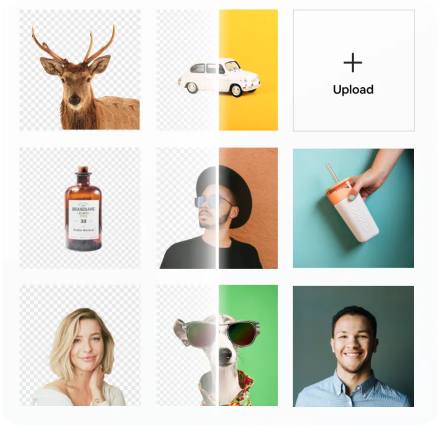
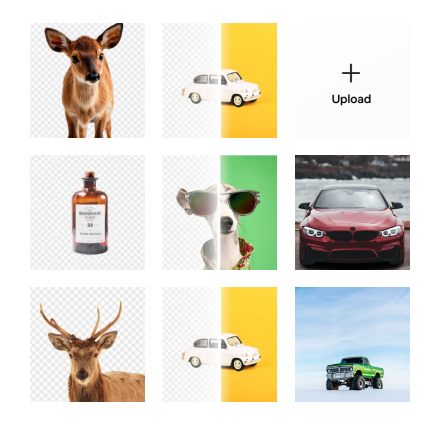
human photos replaced

diff --git a/bulk-image-background-removal-tool-apis.html b/bulk-image-background-removal-tool-apis.html
@@ -166,9 +166,9 @@
       <section class="hero-section">
         <div class="relative my-10 h-[100vh] bg-apeBackground md:min-h-[70vh] lg:my-0">
           <div class="absolute flex h-full w-full items-center px-5 pt-10 text-white">
-            <div class="mx-auto flex w-full max-w-screen-xl flex-col-reverse items-center justify-between gap-10 lg:flex-row">
+            <div class="mx-auto flex w-full max-w-screen-xl flex-col-reverse items-center justify-evenly gap-10 lg:flex-row">
               <div class="relative flex w-[200px] items-center lg:w-[350px]">
-                <img loading="lazy" class="relative z-10 h-auto w-full rounded-2xl" src="assets/images/bulk-image-background-removal-tool-apis__girl-hero.png" alt="PixLab AI Script Writer, Text Editor & PDF Analyser" />
+                <img loading="lazy" class="relative z-10 h-auto w-full rounded-2xl" src="assets/images/bulk-image-background-removal-tool-apis__cat-hero.png" alt="PixLab AI Script Writer, Text Editor & PDF Analyser" />
                 <div class="z-1 absolute inset-0 h-full w-full bg-ibrPrimary opacity-30 blur-xl lg:blur-3xl"></div>
               </div>
 
@@ -202,13 +202,13 @@
             <!-- Single Card -->
             <div class="flex flex-col items-center justify-center gap-3 text-center">
               <h3 class="text-[15px] text-muted">Original</h3>
-              <img loading="lazy" src="assets/images/bulk-image-background-removal-tool-apis__original-girl.png" alt="Original Girl Image" />
+              <img loading="lazy" src="assets/images/bulk-image-background-removal-tool-apis__original-car.png" alt="Original Girl Image" />
             </div>
 
             <!-- Single Card -->
             <div class="flex flex-col items-center justify-center gap-3 text-center">
               <h3 class="text-[15px] text-muted">Background Removed</h3>
-              <img loading="lazy" src="assets/images/bulk-image-background-removal-tool-apis__bg-removed-girl.png" alt="Background Removed" />
+              <img loading="lazy" src="assets/images/bulk-image-background-removal-tool-apis__bg-removed-car.png" alt="Background Removed" />
             </div>
 
             <!-- Single Card -->

diff --git a/assets/css/styles.css b/assets/css/styles.css
@@ -1643,6 +1643,10 @@ body {
   justify-content: space-between;
 }
 
+.justify-around {
+  justify-content: space-around;
+}
+
 .justify-evenly {
   justify-content: space-evenly;
 }
